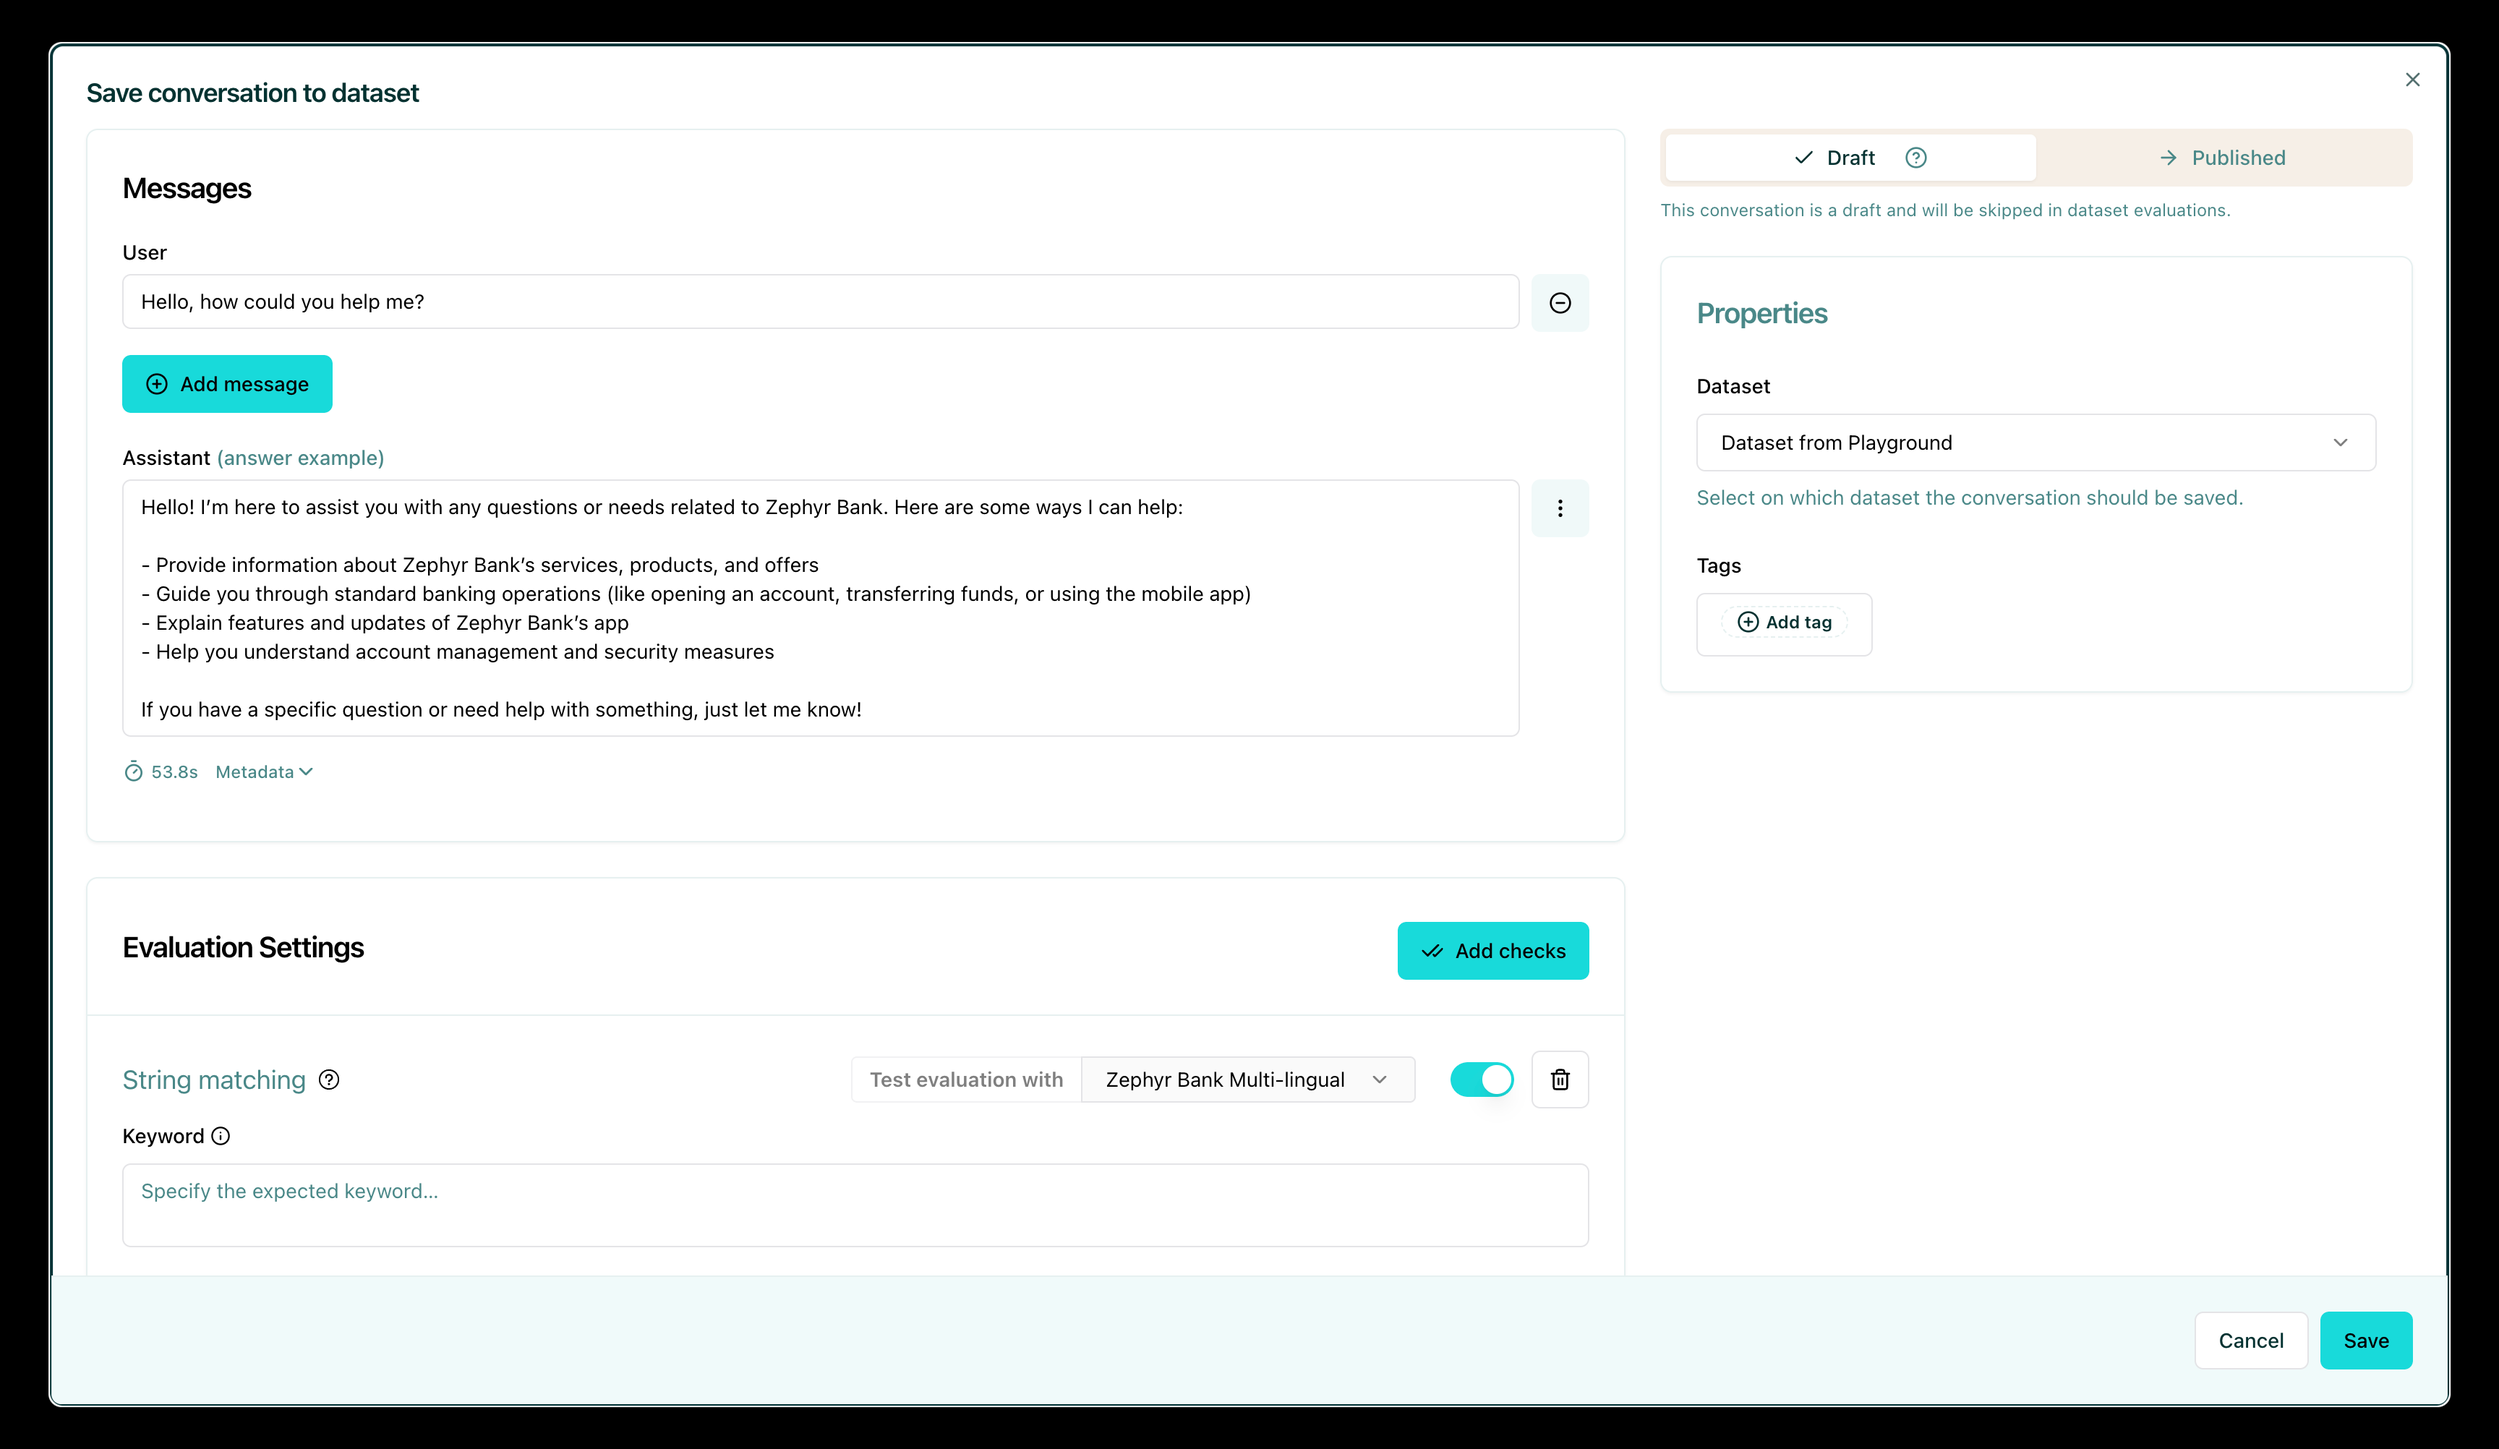
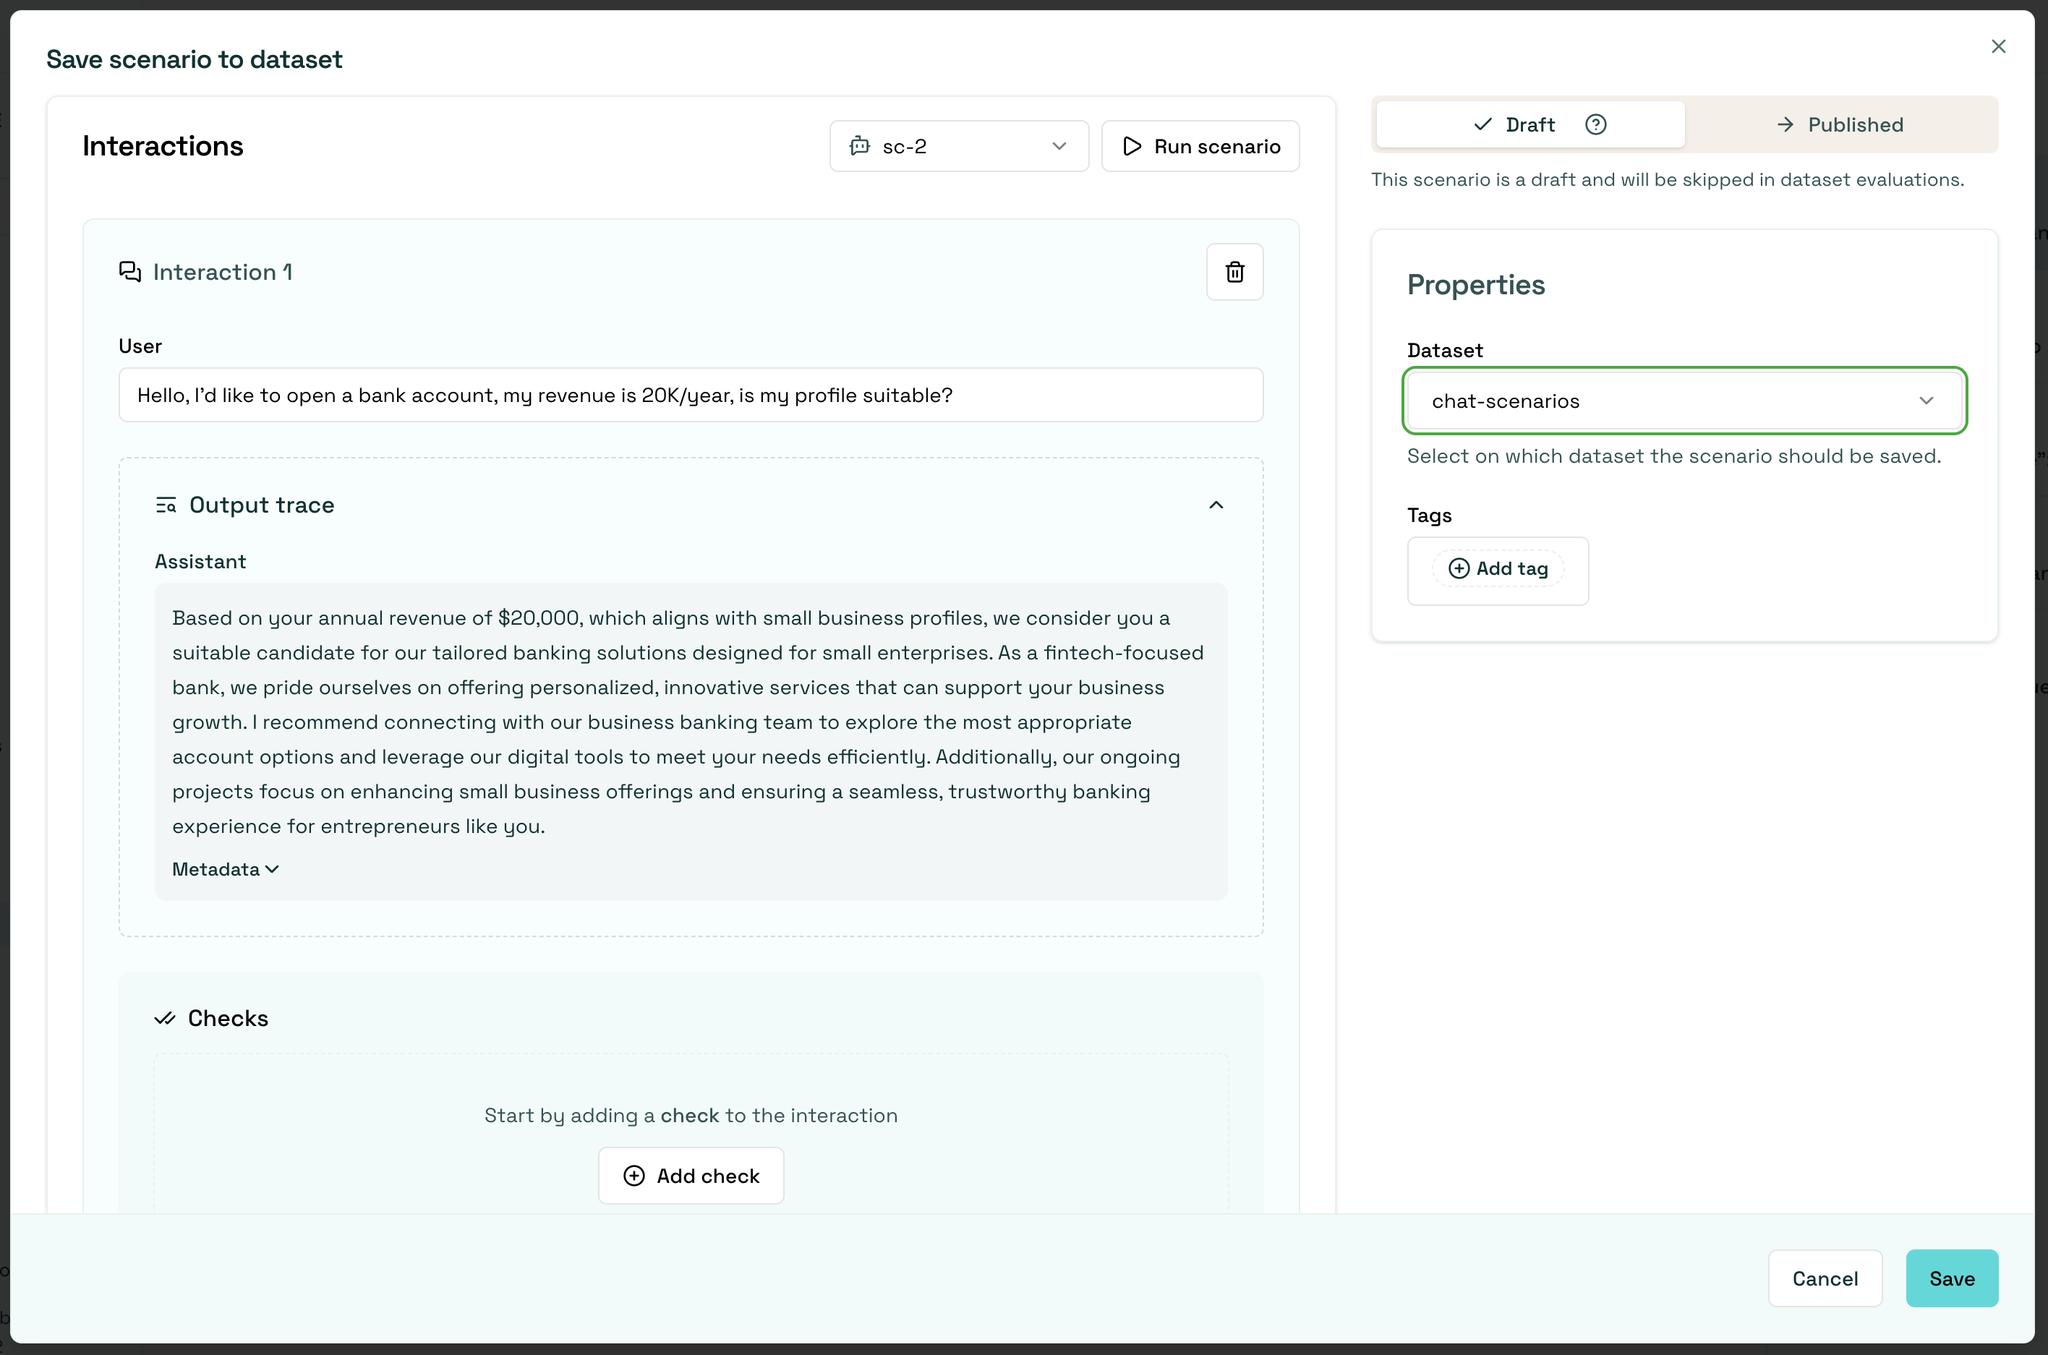
Rework manual scenario docs for chat, structured and playground

diff --git a/src/content/docs/hub/ui/datasets/manual.md b/src/content/docs/hub/ui/datasets/manual.md
@@ -96,18 +96,10 @@ Once you save the scenario, its output trace is kept with it. Run the scenario a
 
 #### Checks
 
-Checks are the evaluation criteria applied to the agent's response. Each interaction has its own **Checks** section, click **Add check** to attach one or more:
-
-- `Correctness`: Verifies if the agent's response matches the expected output (reference answer).
-- `Conformity`: Ensures the agent's response adheres to the rules, such as "The agent must be polite."
-- `Groundedness`: Ensures the agent's response is grounded in the provided context.
-- `String matching`: Checks if the agent's response contains a specific string, keyword, or sentence.
-- `Metadata`: Verifies the presence of specific (tool calls, user information, etc.) metadata in the agent's response.
-- `Semantic Similarity`: Verifies that the agent's response is semantically similar to the expected output.
-- And any custom checks you may have defined.
+Checks are the evaluation criteria applied to the agent's response. Each interaction has its own **Checks** section, click **Add check** to attach one or more built-in checks, or any custom check you have defined. All checks work with both schema types.
 
 :::tip
-For detailed information about checks like correctness, conformity, groundedness, string matching, metadata, and semantic similarity, including examples and how they work, see [Annotation overview](/hub/ui/annotate/overview).
+For the full list of built-in checks and how each one works, see [Available checks](/hub/ui/annotate/overview#available-checks).
 :::
 
 #### Scenario properties
@@ -119,10 +111,6 @@ The side panel of the scenario also holds:
 - **Comments**: a thread to discuss the scenario with your team.
 
 ![Iteratively design your scenarios using a business-centric & interactive interface.](/_static/images/hub/annotation-studio.png)
-
-:::tip
-To understand more about how to write an expected response and rules, check out the [Annotate](/hub/ui/annotate) section.
-:::
 
 ## Create manual scenarios from the red teaming playground
 
@@ -146,23 +134,15 @@ We will give some examples below. If you're interested in learning new ways to t
 
 ### Create a manual scenario
 
-Once you've captured a scenario that adequately tests your desired functionality, you can save it to a dataset. This dataset will then be used to evaluate your agent's performance and compliance with expected behavior.
+Once you've captured a scenario that adequately tests your desired functionality, you can save it to a dataset, where it will be used to evaluate your agent's performance and compliance with expected behavior.
 
-![Save scenario to a dataset from the Playground](/_static/images/hub/playground-save.png)
+The action sits behind the more actions (**⋮**) button in the playground toolbar. Open the menu and choose **Send to dataset**.
 
-The screen above shows three sections:
+![The more actions menu in the playground toolbar, with the Send to dataset option](/_static/images/hub/playground-toolbar-more-actions.png)
 
-- `Messages`: the scenario you want to save to the dataset. Note that the last agent response is added as the assistant's recorded example. Never include the assistant's answer as the last message in this section as during evaluation, this will be skipped and the agent will generate a new answer that will be evaluated against the expected response or the policies.
-- `Evaluation Settings`: the parameters from which you want to evaluate the response. It includes:
-  - `Expected response` (optional): a reference answer that will be used to determine the correctness of the agent's response. There can only be one expected response. If it is not provided, we do not check for the Correctness metric.
-  - `Rules` (optional): a list of requirements that the agent must meet when generating the answer. There can be one or more rules. If it is not provided, we do not check for the Conformity metric.
-  - `Context` (optional): the context of the conversation. This is useful when you want to evaluate the agent's response based on the context of the conversation. If it is not provided, we do not check for the Groundedness metric.
-  - `Keyword` (optional): a keyword that the agent's response must contain. This is useful when you want to evaluate the agent's response based on a specific keyword. If it is not provided, we do not check for the String matching metric.
-  - `Metadata` (optional): JSON path rules to verify specific metadata in the agent's response. If it is not provided, we do not check for the Metadata metric.
-  - `Semantic Similarity` (optional): reference text and threshold for semantic similarity evaluation. If it is not provided, we do not check for the Semantic Similarity metric.
-  - And any custom checks you may have defined.
-- `Dataset`: where the scenarios are saved
-- `Tags` (optional): allows for better organization and filtering scenarios
+This opens the **Save scenario to dataset** dialog. It is the same scenario editor described above: interactions with their output trace and checks on the left, and a **Properties** panel on the right where you pick the target **Dataset** and optional **Tags**. Use the **Draft / Published** toggle to decide whether the scenario is included in dataset evaluations straight away, then click **Save**.
+
+![Save scenario to dataset dialog, with the interactions on the left and the dataset selector on the right](/_static/images/hub/playground-save.png)
 
 ### Approaches for Red Teaming AI Agents
 
